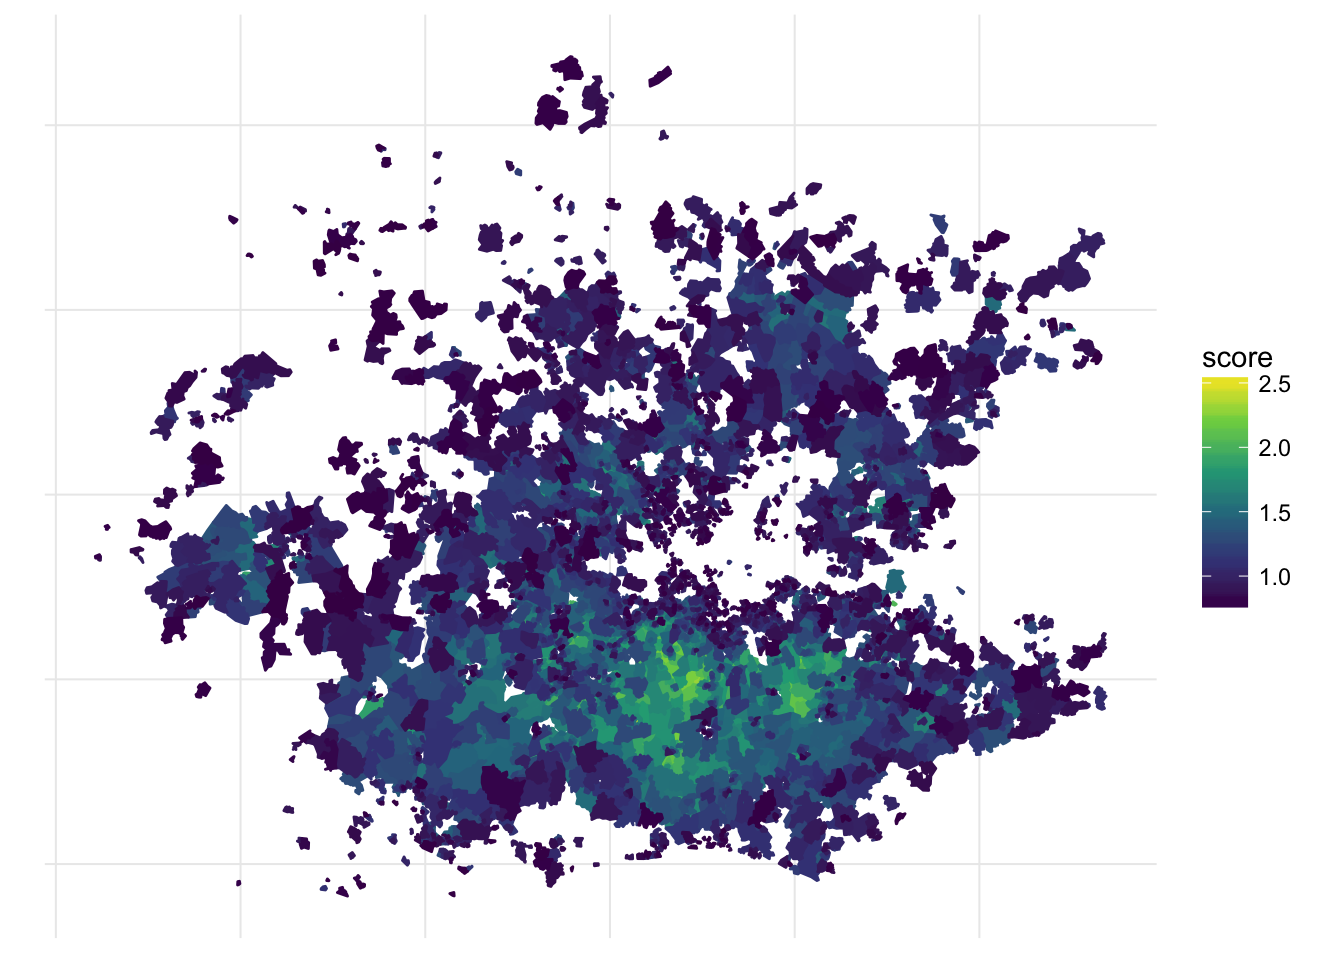
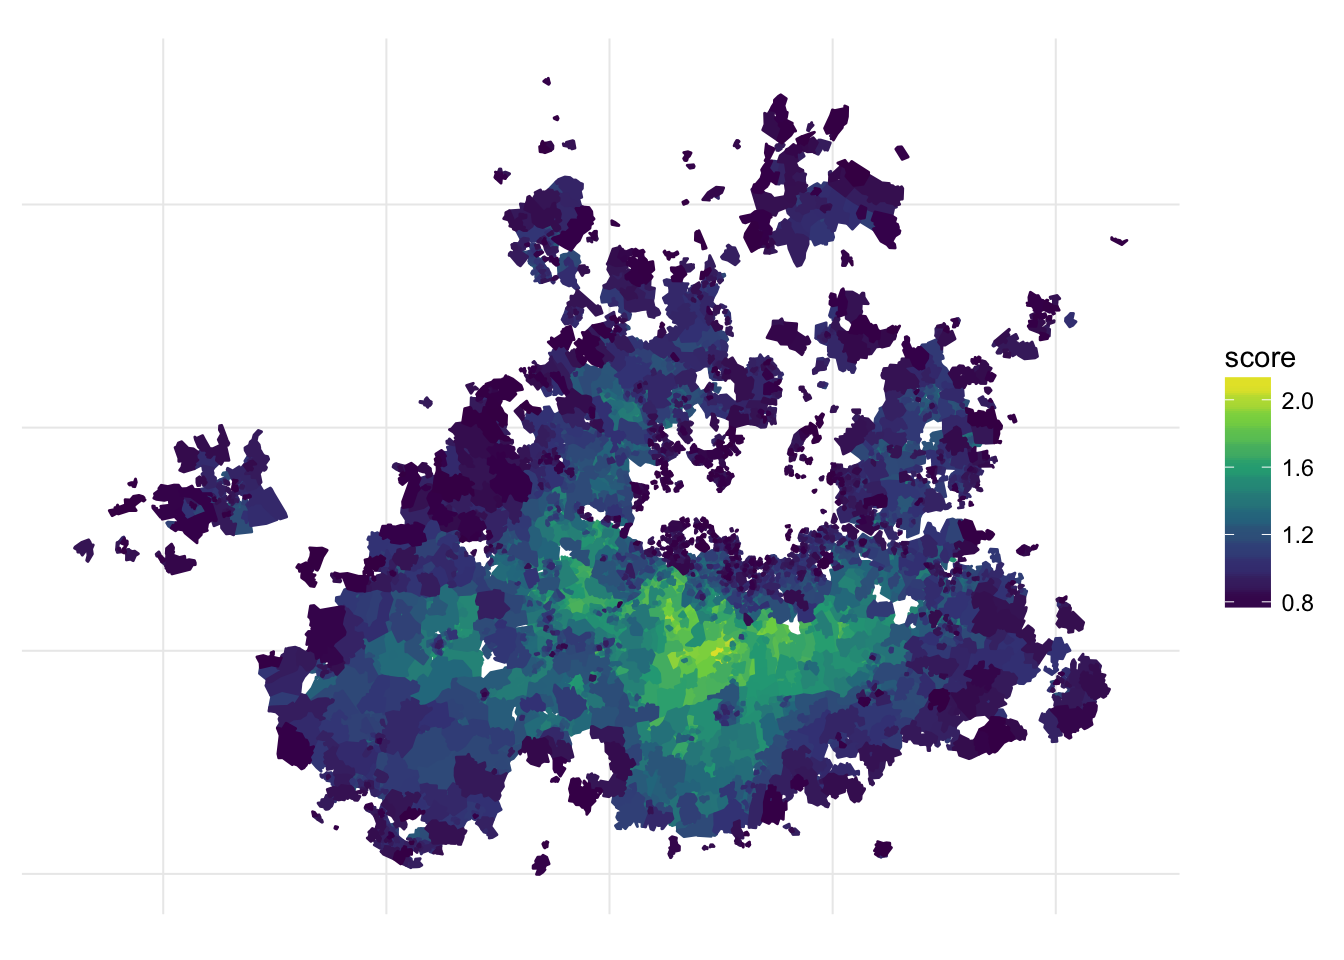
Altered the calculations in best-commutes

Changed region(s): [[0.0312, 0.0625, 0.8438, 0.9375], [0.875, 0.3438, 0.9688, 0.6562], [0.2812, 0.1562, 0.3125, 0.1875]]

diff --git a/content/post/2015-10-18-best-commutes.html b/content/post/2015-10-18-best-commutes.html
@@ -59,9 +59,7 @@ code > span.in { color: #60a0b0; font-weight: bold; font-style: italic; } /* Inf
 <li><p>Commuting time by car (weight of 15)</p></li>
 <li><p>Average age of the district’s residents (weight of 1)</p></li>
 <li><p>Typical cost of housing in the district (weight of 6)</p></li>
-<li><p>Standardised crime statistics for the district (weight of 6)</p></li>
-<li><p>Educational achievement in the district (weight of 6)</p></li>
-<li><p>Level of deprivation in the district (weight of 3)</p></li>
+<li><p>Level of deprivation in the district (weight of 6), which also reflects crime and educational achievement</p></li>
 </ul>
 <p>That said, at some point, I might investigate more measures – perhaps by constituency.</p>
 <p>I then pulled all this together into a weighted score and mapped it. And, thinking optimistically, it must have helped my friend, as he ended-up buying a property in district rated as highly desirable.</p>
@@ -94,9 +92,7 @@ finalData &lt;-<span class="st"> </span>data <span class="op">%&gt;%</span><span
            ((<span class="dv">15</span> <span class="op">*</span><span class="st"> </span>Time) <span class="op">+</span><span class="st"> </span>
 <span class="st">           </span>Wtd.Ave <span class="op">+</span><span class="st"> </span>
 <span class="st">           </span>(<span class="dv">6</span> <span class="op">*</span><span class="st"> </span>Affordability) <span class="op">+</span><span class="st"> </span>
-<span class="st">           </span>(<span class="dv">6</span> <span class="op">*</span><span class="st"> </span>IMD.crime.score) <span class="op">+</span><span class="st"> </span>
-<span class="st">           </span>(<span class="dv">6</span> <span class="op">*</span><span class="st"> </span>IMD.education.score) <span class="op">+</span><span class="st"> </span>
-<span class="st">           </span>(<span class="dv">3</span> <span class="op">*</span><span class="st"> </span>IMD.score)) <span class="op">*</span><span class="st"> </span><span class="op">-</span><span class="dv">1</span>) <span class="op">%&gt;%</span><span class="st"> </span>
+<span class="st">           </span>(<span class="dv">6</span> <span class="op">*</span><span class="st"> </span>IMD.score)) <span class="op">*</span><span class="st"> </span><span class="op">-</span><span class="dv">1</span>) <span class="op">%&gt;%</span><span class="st"> </span>
 <span class="st">  </span><span class="kw">select</span>(id, score) <span class="op">%&gt;%</span><span class="st"> </span>
 <span class="st">  </span><span class="kw">mutate</span>(<span class="dt">score =</span> <span class="kw">scale</span>(score)) <span class="op">%&gt;%</span><span class="st"> </span>
 <span class="st">  </span><span class="kw">left_join</span>(geography, <span class="dt">by =</span> <span class="kw">c</span>(<span class="st">&quot;id&quot;</span> =<span class="st"> &quot;lsoa11cd&quot;</span>)) <span class="op">%&gt;%</span><span class="st"> </span>
